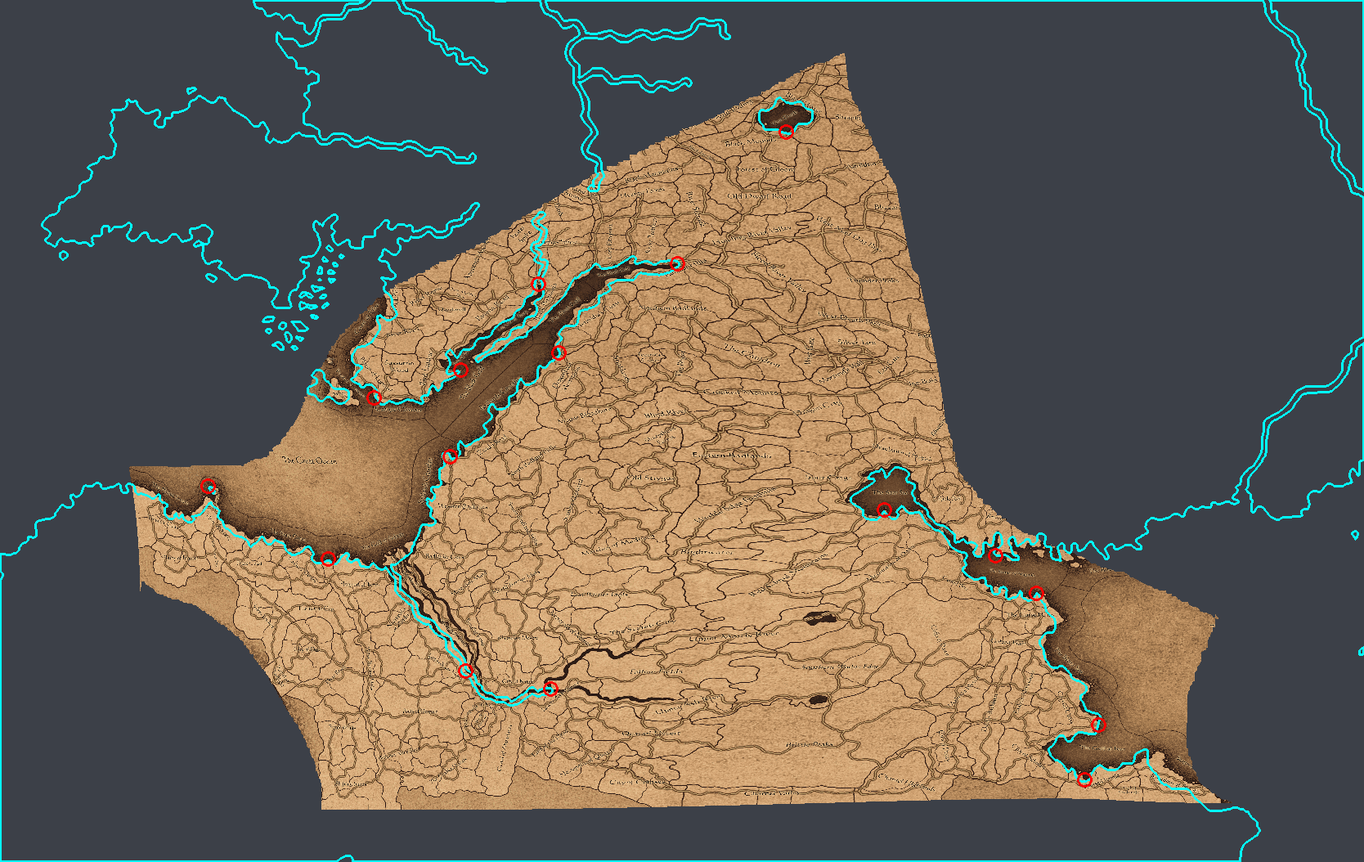
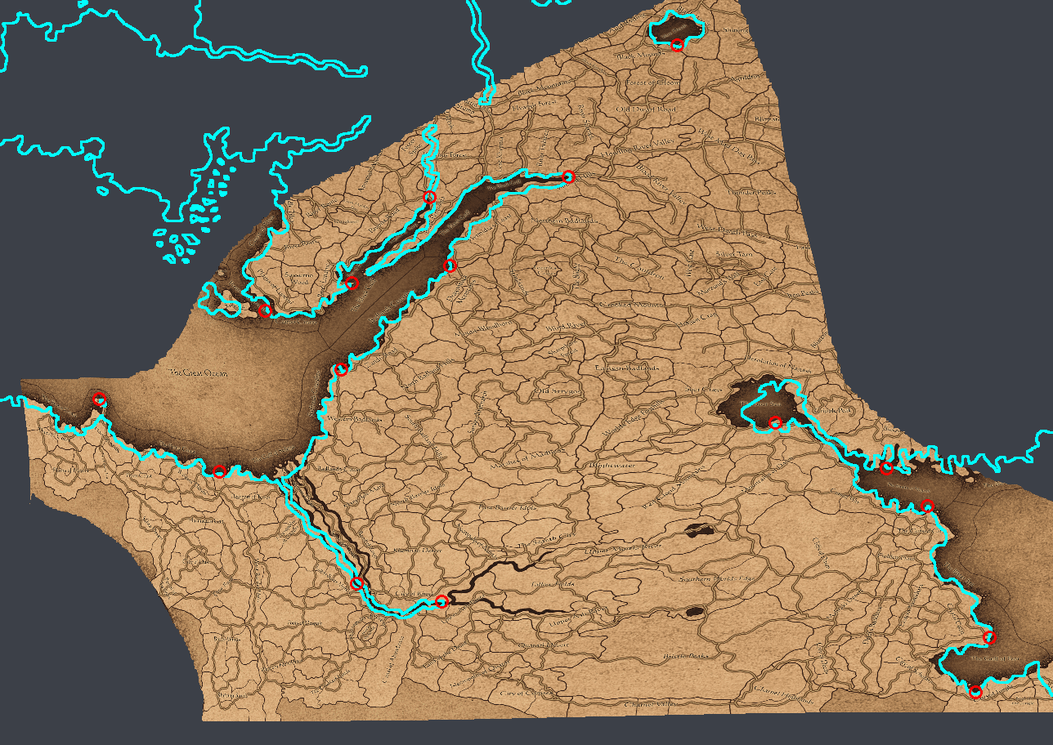
Restore + reconcile the Old World registration layer (renders, manifest)
Close out the paired-anchor-dot registration layer: all six placed
sources exist locally again and the manifest is self-consistent.

- Regenerate the six diagnostic renders (five per-region + the combined
  nine-zone coverage proof) through the committed records; user-accepted
  2026-08-20. bretonnia/kislev/dark_lands/combined return to tools/derived/
  as git-tracked deliverables via explicit per-file .gitignore allowlist
  lines (name-pinned, not a glob).
- SOURCES.md: rewrite the empire row for the 7-dot refit (new dims/SHA);
  add the badlands_nehekhara row; drop the "File missing locally" clauses
  from the four restored rows; correct the three rows that claimed live
  boundary precedences (110/111/112) to match the committed records (all
  inert 5 except dark_lands at 113); resolve the render git-tracking note.
  Re-swept with --update-manifest (dims/bytes/SHA re-pinned from disk;
  old_world_state_regions.paint re-pinned to the user's edit;
  old_world_regions.paint gains a TBD row).
- generate_state_labels.py: rewrite the stale 2026-08-17 NOTE (files
  restored; empire/badlands wiring + the four precedence promotions
  deferred to #2207). Comment-only, no behaviour change.
- Handoff doc: current-state note (scripts, legacy-fit caveat).

No registration record or seed was edited and no fit was re-derived; the
clean sources were re-derived via tools/inpaint_dot_markers.py and the
renders warp through the unchanged records. Boundary wiring and precedence
[…]

diff --git a/tools/generate_state_labels.py b/tools/generate_state_labels.py
@@ -145,17 +145,21 @@ BOUNDARY_LAYER = "boundaries"
 #: Old World boundary network, one per-region tile placed by the paired-anchor-dot
 #: workflow. Each carries an intentional binary alpha mask (transparent = regions
 #: cut away), honoured as its contributing footprint (see ``extract_source_cells``
-#: and ``warp_cells``'s ``src_valid``), and a boundary precedence (110–113) above
-#: IE (100) and ``tww3_colored`` (95) so its lines win *inside its own footprint*
-#: only. NOTE 2026-08-17: their backing source files (and the Empire crop,
-#: imperial_provinces.png, since removed below) are currently missing from
-#: sources/ — the registrations are kept (not deleted) pending either their
-#: restoration or a replacement registration for claude_old_world_state_regions.png
-#: (the new unified marker-line source), which needs its own paired-anchor-dot fit
-#: before it can stand in — a whole-map frame_alias isn't possible because the
-#: master (tww3_old_world_mod_parchment.png) was never itself registered, only
-#: these per-region crops were (a whole-map fit is defeated by inconsistent
-#: regional scale, the same reason the crop workflow exists at all).
+#: and ``warp_cells``'s ``src_valid``). Their committed records carry a LIVE
+#: boundaries precedence only for dark_lands (113 — above IE's 100 and
+#: ``tww3_colored``'s 95, so its lines win inside its own footprint); bretonnia
+#: and kislev_norsca still carry the provisional placement value 5, so those two
+#: currently contribute BELOW IE wherever both cover. NOTE 2026-08-20: all five
+#: per-region crops (these three plus the empire and badlands_nehekhara tiles,
+#: not yet wired in here) exist in sources/ again, re-derived from the user's
+#: surviving marked dot crops by tools/inpaint_dot_markers.py. Wiring empire +
+#: badlands_nehekhara into BOUNDARY_SOURCES / OLD_WORLD_CROP_MIN_STATES and
+#: promoting the four inert precedences (5 -> live values) are deliberately
+#: deferred to board item #2207 — promotion means seed edits + record
+#: re-derives, and the legacy-fit records (bretonnia, kislev_norsca) would
+#: shrink to their dot hull + pad on a re-derive (fit_registration.py's
+#: hull-bounded lattice), so recovering their periphery needs edge dots from
+#: the user first.
 BOUNDARY_SOURCES = {
     "tww3_colored.png": "flat_colour",
     "tww3_ie_parchment.jpg": "ink_bridged",

diff --git a/tools/SOURCES.md b/tools/SOURCES.md
@@ -76,12 +76,13 @@ edit the Origin/Role cells by hand, let `--update-manifest` fill Dims/Bytes/SHA.
 | land_sea_mask.png | 8192x3616 | 244,073 | decfeb6f1d06335fafcf5c02387fd8e2bd0be71250bf3eaa83658b91bf6d8ef2 | TBD | TBD | no |
 | mega_detailed_old_world.jpg | n/a | 385,900,884 | 99b89752c24766a968cd4023a6450aa75bb34a3b01ac6ee6bcda3a698b7c7906 | TBD | TBD | no |
 | named_globe.png | 4096x2048 | 15,109,233 | 0f89110c2a4cc471f53319a05aba439a4a1e69119d06278b5374b0214ff22eff | Fan cartography — a labelled whole-world Warhammer map, blue-ocean relief with region names (Naggaroth, Ulthuan, the Old World, Southlands, Grand Cathay, …). Exact author unconfirmed. Added by the user 2026-08-12 | **Projection: equirectangular (plate carrée)** — identified 2026-08-15. Exactly 2:1 at 4096×2048 (power-of-two globe-texture dims), filled corner-to-corner with ocean/ice (an oval projection would leave the corners empty), meridians vertical. **Registered 2026-08-15** (`tools/registration/named_globe.json`) as a `control_point_warp`. A pure analytic-equirectangular placement was tried first and rejected (the artist drew landmasses at different proportions than the mask), so the geographic box was MEASURED by silhouette IoU against `land_sea_mask.png`: named_globe covers only ~320° of longitude and is latitude-cropped at ~40°S (affine cx≈2048 sx≈12.79 cy≈1348 sy≈17.50, 0.638 affine IoU), so it has NO coverage of the canvas far-eastern seam or its southern band. That affine seeds an 11×7 lattice `register.refine` pulled onto the mask to **0.788 IoU** (no folds, anisotropy≤3). Contributes NO coastline (mask stays sole authority) — a whole-world coastline reference like `colored_globe`, at a third projection. MACHINE-FITTED; re-derive, do not hand-edit. PROVISIONAL until the user accepts the render | yes |
-| old_world_state_regions.paint | n/a | 9,854,028 | 76635a4471b28c28465f562c207719f74571a3011c934d230ee4d53acd00f486 | TBD | TBD | no |
+| old_world_regions.paint | n/a | 9,269,857 | bd9427df19dd228aaec3914303fcd26a7d8af01633b9b5895abc53dba0b4dcd4 | TBD | TBD | no |
+| old_world_state_regions.paint | n/a | 9,114,827 | 1295a725d1545b704e5dacaf45d4c27ac53cea5554d11c5f14a537ba4580ab64 | TBD | TBD | no |
 | old_world_terrain.jpg | 3016x2080 | 1,140,330 | 80ae22f4aa384049cd42e70ade67db4f57853e6e91c9fbed30458dd9a69c1f91 | Games Workshop — Warhammer: The Old World world map | Old World / Badlands / Dark Lands / Araby / Land of the Dead boundaries. **NOT USABLE FOR GEOMETRY** (measured S3a) — misregistered off the coast, and not a chloropleth (see below) | yes |
 | old_world_z10 - grayscale.png | 6658x9824 | 70,851,835 | c2b19d3cd0ce5c0551f9c628f17160ea9dc1cf03eec23320549758be1f43a095 | TBD | TBD | no |
 | old_world_z10.png | 6658x9824 | 120,598,002 | 856dfa35a633a3e7dead1972a37660791fc2b8fcbb18a59f3a535b2d3109428a | Games Workshop — official "Warhammer: The Old World" interactive map (start-warhammer.com), zoom-10 base tile layer, stitched by us (TMS tiles, transparent border cropped) | Highest-resolution whole-continent Old World reference in the folder. Base tile ART ONLY — the site's interactive city/army/region markers are separate overlays and are NOT baked in. Naming + extent + coastline/relief cross-reference (S6). Unregistered | no |
 | satellite_globe.jpg | 637x358 | 43,099 | 8b90bae2e491a366a8c5deb3f1e8d9307dac6b8658d0fd7d62bb9c6de242d95b | Fan whole-world satellite/biome render (Steam Workshop) | **Projection: equirectangular** (rectangular whole-world texture, pillarboxed to 16:9 — black bars at x=[0..86] and x>548, content x=[87..548]; the map itself is corner-to-corner with vertical meridians). DE-REGISTERED in S2 — de-registered for cloud cover + the narrow 462-px usable width, not for its projection (see below) | no |
-| start_warhammer_old_world_northern.png | n/a | n/a | n/a | TBD — northern Old World crop of `old_world_z10.png`, placed by the paired-anchor-dot workflow (2026-08-16) | PLACEMENT ONLY (grayscale relief, no drawn boundary network); see `tools/registration/start_warhammer_old_world_northern.json`. File missing locally as of 2026-08-17 — row added to close a pre-existing manifest gap; dims/SHA TBD once the file is available to hash | yes |
+| start_warhammer_old_world_northern.png | 6134x4958 | 29,623,768 | 2eb0f55756aba70b3648675358a89e13db55ee378cbea52b049eff1c5251b999 | Northern Old World crop of `old_world_z10.png` (via its grayscale variant), cut and dot-marked by the user for the paired-anchor-dot workflow (2026-08-16) | PLACEMENT ONLY (grayscale relief, no drawn boundary network); see `tools/registration/start_warhammer_old_world_northern.json` (objective=landmarks, 40 of the crop's 42 dots; legacy full-frame fit — predates `fit_registration.py`'s hull-bounded lattice, noted for any future re-derive). Downstream consumption undecided; stays out of the combined coverage render (relief, overlaps the parchment tiles). Clean source re-derived from the surviving dot crop by `tools/inpaint_dot_markers.py` (2026-08-20; the 2 unused dots are inpainted too) — not re-rendered, placement unchanged | yes |
 | states.paint | n/a | 10,895,018 | df80d63fd28441d250d597e3f1b63a9851dd2caf612b9ab1305a8e8949b4772a | TBD | TBD | no |
 | states.png | 4096x4096 | 26,033,874 | e0ff26308e15654f5dca4d2d5f208c16bc4d7e798277ea5a3ec942c9101f3065 | TBD | TBD | no |
 | terraqueous_globe.jpg | 4000x3256 | 2,292,545 | c4021e28d8d58bc3f91733df72ee9b7b398f922bb565b0478d3743446d8c15f3 | Fan cartography — "Terraqueous Globe", Kartografia Niepraktyczna 2022 | Whole-world heightmap (NE-II colour-to-height ramp) + coastline. **The single geometric authority** (S3a decision #1) — every other source projects onto it | yes |
@@ -100,10 +101,11 @@ edit the Origin/Role cells by hand, let `--update-manifest` fill Dims/Bytes/SHA.
 | tww3_ie_state_regions.png | 3703x2880 | 20,859,981 | 0c14cf0be008afb1414d0045cf2dabaef73b789b25c8c9eb4cb3f4cba33038cc | TBD | TBD | no |
 | tww3_old_world_mod_grayscale.png | 4096x4096 | 16,207,148 | a02fed5a10833e32988fe2b83f894e529fa1894370e13929c9a1533989c762e4 | TBD | TBD | no |
 | tww3_old_world_mod_parchment.png | 4096x4096 | 8,332,865 | 93f5c7b4791d7a02b60eeb4ba96bf5abc66ad4d650978d1990b022840de903a3 | Fan cartography — "The Old World, all faction starting positions v3.0" | **Denser Old World boundary network** — a line chloropleth, markedly denser than IE over the same arc. Higher precedence inside a masked footprint; the four corner vignettes + the Galleon's Graveyard spiral are excluded (they take cartographic liberties — user-flagged) | no |
-| tww3_old_world_mod_parchment_bretonnia.png | 1598x1789 | 2,703,109 | 52272c13257154f98f0c7d69d08db0068abbae79b99c7708a6ae7ac2358c118c | Dot-free, alpha-masked crop of `tww3_old_world_mod_parchment.png`, cut by the user for the paired-anchor-dot workflow (2026-08-14) — actually spans the whole south-west block (Bretonnia + Estalia + Tilea), named "bretonnia" per the user's request | **BOUNDARY SOURCE** (Old World, `ink_bridged`): registered by `tools/fit_registration.py --seed tww3_old_world_mod_parchment_bretonnia` (objective=landmarks, 11 user-drawn paired anchor dots read direct off `terraqueous_globe_reprojected.png`, 6x6 lattice) and consumed by `generate_state_labels.py` to cut Old World state cells inside its **alpha>0 footprint** (the crop's binary alpha mask is its contributing region; transparent = excluded), at boundaries precedence 111 — above IE (100) and `tww3_colored` (95) so its lines win inside that footprint only. Contributes NO coastline (mask stays sole authority). File missing locally as of 2026-08-17 — record kept, not deleted, pending restoration or a replacement registration for `claude_old_world_state_regions.png` | yes |
-| tww3_old_world_mod_parchment_dark_lands.png | 1965x2779 | 5,380,143 | e8e8b2a817ecb55b91658bc774f5c3b4316267a54089ae872b1fd9b472753d2e | Dot-free, alpha-masked crop of `tww3_old_world_mod_parchment.png` (everything outside the Dark Lands alpha-erased away), cut by the user for the paired-anchor-dot workflow (2026-08-15) | **BOUNDARY SOURCE** (Old World, `ink_bridged`): registered by `tools/fit_registration.py --seed tww3_old_world_mod_parchment_dark_lands` (objective=landmarks, 14 user-drawn paired anchor dots read direct off `terraqueous_globe_reprojected.png`, 6x6 lattice) and consumed by `generate_state_labels.py` to cut Old World state cells inside its **alpha>0 footprint**, at boundaries precedence 113 — above IE (100) and `tww3_colored` (95) so its lines win inside that footprint only. Contributes NO coastline (mask stays sole authority). File missing locally as of 2026-08-17 — record kept, not deleted, pending restoration or a replacement registration for `claude_old_world_state_regions.png` | yes |
-| tww3_old_world_mod_parchment_empire.png | 1149x1167 | 1,346,687 | 9183ec0d80cadef0ba558c203252ce39eb1954e1e58a0811c4ceae0ebbf3225a | Dot-free, alpha-masked crop of `tww3_old_world_mod_parchment.png` (Norsca/Bretonnia/Estalia/Tilea alpha-erased away), cut by the user for the paired-anchor-dot workflow (2026-08-14) | **BOUNDARY SOURCE** (Old World, `ink_bridged`): registered by `tools/fit_registration.py --seed tww3_old_world_mod_parchment_empire` (objective=landmarks, 9 user-drawn paired anchor dots read direct off `terraqueous_globe_reprojected.png`, 6x6 lattice) and consumed by `generate_state_labels.py` to cut Old World state cells inside its **alpha>0 footprint**, at boundaries precedence 110 — above IE (100) and `tww3_colored` (95) so its lines win inside that footprint only. Contributes NO coastline (mask stays sole authority). File missing locally as of 2026-08-17 — record kept, not deleted, pending restoration or a replacement registration for `claude_old_world_state_regions.png` | yes |
-| tww3_old_world_mod_parchment_kislev_norsca.png | 2939x1436 | 3,368,296 | 6af00b68fe88748133119209dda2522f274a54fa6d3dead08c5f995de55f8dd2 | Dot-free, alpha-masked crop of `tww3_old_world_mod_parchment.png` (everything outside Kislev + Norsca alpha-erased away), cut by the user for the paired-anchor-dot workflow (2026-08-15) | **BOUNDARY SOURCE** (Old World, `ink_bridged`): registered by `tools/fit_registration.py --seed tww3_old_world_mod_parchment_kislev_norsca` (objective=landmarks, 10 user-drawn paired anchor dots read direct off `terraqueous_globe_reprojected.png`, 6x6 lattice) and consumed by `generate_state_labels.py` to cut Old World state cells inside its **alpha>0 footprint**, at boundaries precedence 112 — above IE (100) and `tww3_colored` (95) so its lines win inside that footprint only. Contributes NO coastline (mask stays sole authority). File missing locally as of 2026-08-17 — record kept, not deleted, pending restoration or a replacement registration for `claude_old_world_state_regions.png` | yes |
+| tww3_old_world_mod_parchment_badlands_nehekhara.png | 3462x2567 | 6,527,951 | 907378daee8bc1e7fcd34a8625f41721b8139a00cd081b6bea3a45793b94e5f9 | Dot-free, alpha-masked crop of `tww3_old_world_mod_parchment.png` spanning the southern Old World arc (Badlands, Border Princes, the Dead Sea coast toward Nehekhara), cut by the user for the paired-anchor-dot workflow (2026-08-15) — the worked-template tile for the workflow | **BOUNDARY SOURCE** (Old World, `ink_bridged`): registered by `tools/fit_registration.py --seed tww3_old_world_mod_parchment_badlands_nehekhara` (objective=landmarks, 16 of 17 user-drawn paired anchor dots read direct off `terraqueous_globe_reprojected.png` — interior south-central 'yellow' held out per the user's 2026-08-17 A/B compare; 6x6 lattice, hull-bounded). Consumed by `generate_state_labels.py` to cut Old World state cells inside its **alpha>0 footprint** — but NOT yet wired into `BOUNDARY_SOURCES` (that, with empire, is board item #2207). Its committed record carries the provisional boundaries precedence **5 (inert — below IE's 100)**; promotion is #2207's. Contributes NO coastline (mask stays sole authority). Clean source re-derived 2026-08-20 from `sources/dots/tww3_old_world_mod_parchment - dots_6.png` by `tools/inpaint_dot_markers.py` (the held-out yellow is inpainted with the rest; diff vs the accepted local file confined to the marker disks) | yes |
+| tww3_old_world_mod_parchment_bretonnia.png | 1598x1789 | 2,702,971 | a0e9e7dad10318cf6fc9bbfbef1ca838c432c4083a5a76afcf3e8a26187c8808 | Dot-free, alpha-masked crop of `tww3_old_world_mod_parchment.png`, cut by the user for the paired-anchor-dot workflow (2026-08-14) — actually spans the whole south-west block (Bretonnia + Estalia + Tilea), named "bretonnia" per the user's request | **BOUNDARY SOURCE** (Old World, `ink_bridged`): registered by `tools/fit_registration.py --seed tww3_old_world_mod_parchment_bretonnia` (objective=landmarks, 11 user-drawn paired anchor dots read direct off `terraqueous_globe_reprojected.png`, 6x6 lattice) and consumed by `generate_state_labels.py` to cut Old World state cells inside its **alpha>0 footprint** (the crop's binary alpha mask is its contributing region; transparent = excluded). Its committed record carries the provisional boundaries precedence **5 (inert — below IE's 100)**, NOT the 111 an earlier version of this row claimed; promoting it to a live value is board item #2207's job (a re-derive, and because this is a legacy full-frame fit it would shrink the footprint to the dot hull+pad, so #2207 needs edge dots from the user first). Contributes NO coastline (mask stays sole authority). Restored 2026-08-20 — clean source re-derived from the surviving dot crop `sources/dots/tww3_old_world_mod_parchment - dots_2.png` by `tools/inpaint_dot_markers.py`; the bytes differ from the ad-hoc inpaint that generated the current committed label layer (superseded by #2207's regeneration) | yes |
+| tww3_old_world_mod_parchment_dark_lands.png | 1965x2779 | 5,379,669 | 3ae17c66eb93f9eb5e587e0bb8bc1b5e1cd0221922e4369f018b49dc7bc4d959 | Dot-free, alpha-masked crop of `tww3_old_world_mod_parchment.png` (everything outside the Dark Lands alpha-erased away), cut by the user for the paired-anchor-dot workflow (2026-08-15) | **BOUNDARY SOURCE** (Old World, `ink_bridged`): registered by `tools/fit_registration.py --seed tww3_old_world_mod_parchment_dark_lands` (objective=landmarks, 14 user-drawn paired anchor dots read direct off `terraqueous_globe_reprojected.png`, 6x6 lattice) and consumed by `generate_state_labels.py` to cut Old World state cells inside its **alpha>0 footprint**, at boundaries precedence **113 (live — above IE's 100 and `tww3_colored`'s 95, so its lines win inside that footprint)**. The one crop of the five whose record carries a live boundary precedence; the other four are inert 5 pending #2207's promotion. Contributes NO coastline (mask stays sole authority). Restored 2026-08-20 — clean source re-derived from the surviving dot crop `sources/dots/tww3_old_world_mod_parchment - dots_4.png` by `tools/inpaint_dot_markers.py`; the bytes differ from the ad-hoc inpaint that generated the current committed label layer (superseded by #2207's regeneration) | yes |
+| tww3_old_world_mod_parchment_empire.png | 1456x1469 | 1,994,747 | 20f7107c8bf1aee5e7123d6de0b43e896fb1e287066310d044aebbfb8d1f6dce | Dot-free, alpha-masked Empire crop of `tww3_old_world_mod_parchment.png`, cut by the user for the paired-anchor-dot workflow. **REFIT 2026-08-17**: the current local file is the accepted 7-dot refit (1456×1469, master_shape [1469,1456], revision of `sources/dots/tww3_old_world_mod_parchment - dots_1.png`), which supersedes the retired 1149×1167 9-dot crop this row's pre-sweep Dims/SHA still described — the sweep re-pins them to the refit | **BOUNDARY SOURCE** (Old World, `ink_bridged`): registered by `tools/fit_registration.py --seed tww3_old_world_mod_parchment_empire` (objective=landmarks, 7 user-drawn paired anchor dots read direct off `terraqueous_globe_reprojected.png`, 6x6 lattice, hull-bounded). Consumed by `generate_state_labels.py` to cut Old World state cells inside its **alpha>0 footprint** — but NOT yet wired into `BOUNDARY_SOURCES` (that, with badlands, is board item #2207). Its committed record carries the provisional boundaries precedence **5 (inert — below IE's 100)**, NOT the 110 an earlier version of this row claimed; promotion is #2207's. Contributes NO coastline (mask stays sole authority). Clean source re-derived 2026-08-20 from dots_1 by `tools/inpaint_dot_markers.py` (diff vs the accepted local file confined to the marker disks) | yes |
+| tww3_old_world_mod_parchment_kislev_norsca.png | 2939x1436 | 3,367,534 | 44edbee0669c5f8c8361b2e3ee64d672de0561a932954f1dc5acf0238f945422 | Dot-free, alpha-masked crop of `tww3_old_world_mod_parchment.png` (everything outside Kislev + Norsca alpha-erased away), cut by the user for the paired-anchor-dot workflow (2026-08-15) | **BOUNDARY SOURCE** (Old World, `ink_bridged`): registered by `tools/fit_registration.py --seed tww3_old_world_mod_parchment_kislev_norsca` (objective=landmarks, 13 user-drawn paired anchor dots read direct off `terraqueous_globe_reprojected.png`, 6x6 lattice) and consumed by `generate_state_labels.py` to cut Old World state cells inside its **alpha>0 footprint**. Its committed record carries the provisional boundaries precedence **5 (inert — below IE's 100)**, NOT the 112 an earlier version of this row claimed; promoting it is board item #2207's job (a re-derive, and because this is a legacy full-frame fit it would shrink the footprint to the dot hull+pad, so #2207 needs edge dots from the user first). Contributes NO coastline (mask stays sole authority). Restored 2026-08-20 — clean source re-derived from the surviving dot crop `sources/dots/tww3_old_world_mod_parchment - dots_3.png` by `tools/inpaint_dot_markers.py`; the bytes differ from the ad-hoc inpaint that generated the current committed label layer (superseded by #2207's regeneration) | yes |
 | tww3_states_per_strat_region.jpg | 2048x1593 | 1,112,706 | b8965b704a476a5e93276f217c17dc6b6135301c87564c36ebb6d181252303ca | Fan annotation of the IE parchment master - strategic regions outlined, named, and labelled with their Total War: Warhammer 3 state counts | **NAMED MACRO REGIONS** - the source that binds region names to geometry, without which none of the user's per-region requirements can be checked. 17 named regions; supersedes pizqenw9rd791.jpg for grouping. Frame alias of the twin (exact 0.553 rescale, now pointing at `tww3_ie_parchment.jpg`). Printed counts are a reference, not truth. **Re-added** after the August 2026 retirement — same bytes (SHA-256 confirmed), so registration is restored rather than re-derived | yes |
 | white_dwarf_world_map.png | 4524x3093 | 1,960,224 | c5a4c6708600fedbfe404c59a7c8d6ab5745eea6e4d35a28180ef13932b37be7 | Games Workshop — official Warhammer world map (boxed / White Dwarf fold-out poster; the sheet prints "© Games Workshop Ltd 2000–2004" and "Product code 60440199034"). Fold seams visible | **Projection: oval pseudocylindrical, flattened-pole (Winkel Tripel / Robinson / Natural Earth family — NOT pointed-pole Mollweide/Aitoff)** — identified 2026-08-15. The world's printed neat-line is a smooth arc bowing down to clipped corners, ~360° of longitude wrapping (HUNG at both far edges); the broad clipped top is a pole line, not a point. Same oval family the terraqueous NE-II globe reproduces. Manifest/naming/extent reference only; unregistered — a fit would try the `natural_earth_2` kind, falling back to a `control_point_warp` if its oval isn't exactly NE-II | no |
 <!-- MANIFEST:END -->
@@ -130,26 +132,33 @@ touched.
 `sources/dots/` is the one subfolder in use, and it works precisely because
 nothing in it is consumed: it holds the visual record of the paired-anchor-dot
 registration workflow (see the Immortal Empires/Old World per-region carves
-below) — `terraqueous_globe_reprojected - dots_1.png` / `- dots_2.png` (the
-canvas frame with the Empire's 9 / Bretonnia's 11 dots marked),
-`tww3_old_world_mod_parchment - dots_1.png` / `- dots_2.png` (the matching
-Empire/Bretonnia region crops with their dots still on), and the two composite
-QA renders `empire_anchor_dot_warp_example.png` /
-`bretonnia_anchor_dot_warp_example.png` (the warped tile with the mask
-coastline overlaid). None of these is ever passed to `load_source_image` — they
-are dot-picking references and finished-workflow illustrations, not pipeline
-inputs — so they get no manifest row and no SHA-256 tracking; `--verify` and
-`--update-manifest` correctly ignore the whole subfolder. A future subfolder is
-fine on the same condition: nothing in it may be a name any script loads.
+below). Its dot-picking references are the six pairs of marked images — for each
+region `N` in {1..6}, `terraqueous_globe_reprojected - dots_N.png` (the canvas
+frame with that region's dots marked) and its matching region crop
+(`tww3_old_world_mod_parchment - dots_{1..4,6}.png` for the five parchment tiles;
+`old_world_z10 - dots_5.png` for the northern relief crop) with the dots still
+on — plus the marker-palette listing `127 0 191.txt`. The dots↔region pairing is:
+1 = Empire (7 dots, the 2026-08-17 refit), 2 = Bretonnia+Estalia+Tilea (11),
+3 = Kislev+Norsca (13), 4 = Dark Lands (14), 5 = start_warhammer northern relief
+(42, of which 40 are landmarks), 6 = Badlands+Nehekhara (17, of which 16 are
+landmarks). None of these is ever passed to `load_source_image` — they are
+dot-picking references, not pipeline inputs — so they get no manifest row and no
+SHA-256 tracking; `--verify` and `--update-manifest` correctly ignore the whole
+subfolder. A future subfolder is fine on the same condition: nothing in it may be
+a name any script loads.
 
-`empire_anchor_dot_warp_example.png` previously lived at
-`tools/derived/empire_anchor_dot_warp_example.png`, committed via a `tools/
-.gitignore` allowlist line specifically because `sources/` is blanket-gitignored
-and `tools/derived/` is not. Moving it here (alongside its new Bretonnia
-counterpart) means both worked-example renders are now local-only, like every
-other file in `sources/` — flag if that loss of git tracking wasn't intended;
-the alternative is a matching allowlist line for `sources/dots/*_warp_example.png`
-in the root `.gitignore`, which is otherwise a blanket `sources/` ignore.
+The finished-workflow illustrations — the composite QA renders — now live at
+`tools/derived/<region>_anchor_dot_warp_example.png` (plus
+`tools/derived/old_world_anchor_dot_warp_combined.png`, the five-tile nine-zone
+coverage proof), where they ARE git-tracked via explicit per-file allowlist
+lines in `tools/.gitignore` (`tools/derived/` is not blanket-gitignored the way
+`sources/` is). This resolves the 2026-08-17 flag about them having briefly moved
+into the local-only `sources/dots/`: the committed home is `tools/derived/`, and
+all six are regenerated — never hand-edited — by
+`python tools/render_anchor_dot_example.py --all`, which warps each clean source
+through its committed registration record. The clean sources those renders (and
+the boundary pipeline) read are re-derived from the `sources/dots/` crops above
+by `python tools/inpaint_dot_markers.py`.
 
 ## Renamed: `the-old-world-all-faction-starting-position-map-v3-0-updated-v0-ml2lq3qfofad1{, - Copy}.png`
 

diff --git a/planning/requests/register-old-world-region-anchor-dot-handoff.md b/planning/requests/register-old-world-region-anchor-dot-handoff.md
@@ -83,3 +83,38 @@ workflow. **Badlands + Nehekhara is the worked template — read these first:**
 * Holding out an interior dot can lower the residual (Badlands 17→16 dropped 39/112 to
   34/89 px) but leaves that feature positioned only by the thin-plate trend — it's a
   visual-verdict tradeoff, mine to call.
+
+---
+
+## Current state (2026-08-20, board item #2174 close-out)
+
+All six placed sources exist in `sources/` again — the five parchment region
+tiles (Empire, Bretonnia+Estalia+Tilea, Kislev+Norsca, Dark Lands,
+Badlands+Nehekhara) plus the northern relief crop
+(`start_warhammer_old_world_northern.png`) — re-derived from the surviving marked
+dot crops in `sources/dots/`. `sources.py --verify` and `run_fixture.py --check`
+are green; the manifest (`tools/SOURCES.md`) is reconciled and re-swept.
+
+Steps 5 and 6 of the workflow above are now **committed scripts**, not session code:
+
+* **Step 6 (clean source):** `python tools/inpaint_dot_markers.py --seed <stem>
+  --dots <path>` — exact-RGB marker detection, seed-landmark centroid cross-check
+  (wrong-file guard), dilated nearest-opaque-donor inpaint, alpha byte-identical,
+  zero-marker-px assert. `--diff-against <existing>` guards a re-derivation against
+  an already-accepted clean source. Two pre-convention crops (bretonnia, kislev)
+  use off-palette dot colours; the script samples the dot colour at the seed
+  landmark position as a fallback, still exact-RGB.
+* **Step 5 (render):** `python tools/render_anchor_dot_example.py --all` — warps
+  each clean source through its **committed** record (no re-fit) in the accepted
+  style, writing `tools/derived/<region>_anchor_dot_warp_example.png` plus the
+  combined nine-zone `old_world_anchor_dot_warp_combined.png`.
+
+**Legacy-fit caveat for any future re-derive.** `fit_registration.py`'s landmarks
+objective was rewritten (4580e9c) to bound the lattice to the dot hull + pad for
+≥4 landmarks. The bretonnia, kislev_norsca, dark_lands and start_warhammer records
+predate that (full-frame lattice) — **re-deriving them today changes their geometry
+and shrinks their footprint to the dot hull + pad.** Recovering the lost periphery
+needs edge dots from the user (a sourcing step). #2174 therefore ran **no** fit
+re-derives; it only re-derived the clean image bytes (which `objective: landmarks`
+never reads) and re-rendered through the unchanged records. Precedence promotion
+and the empire/badlands boundary wiring are board item #2207.
